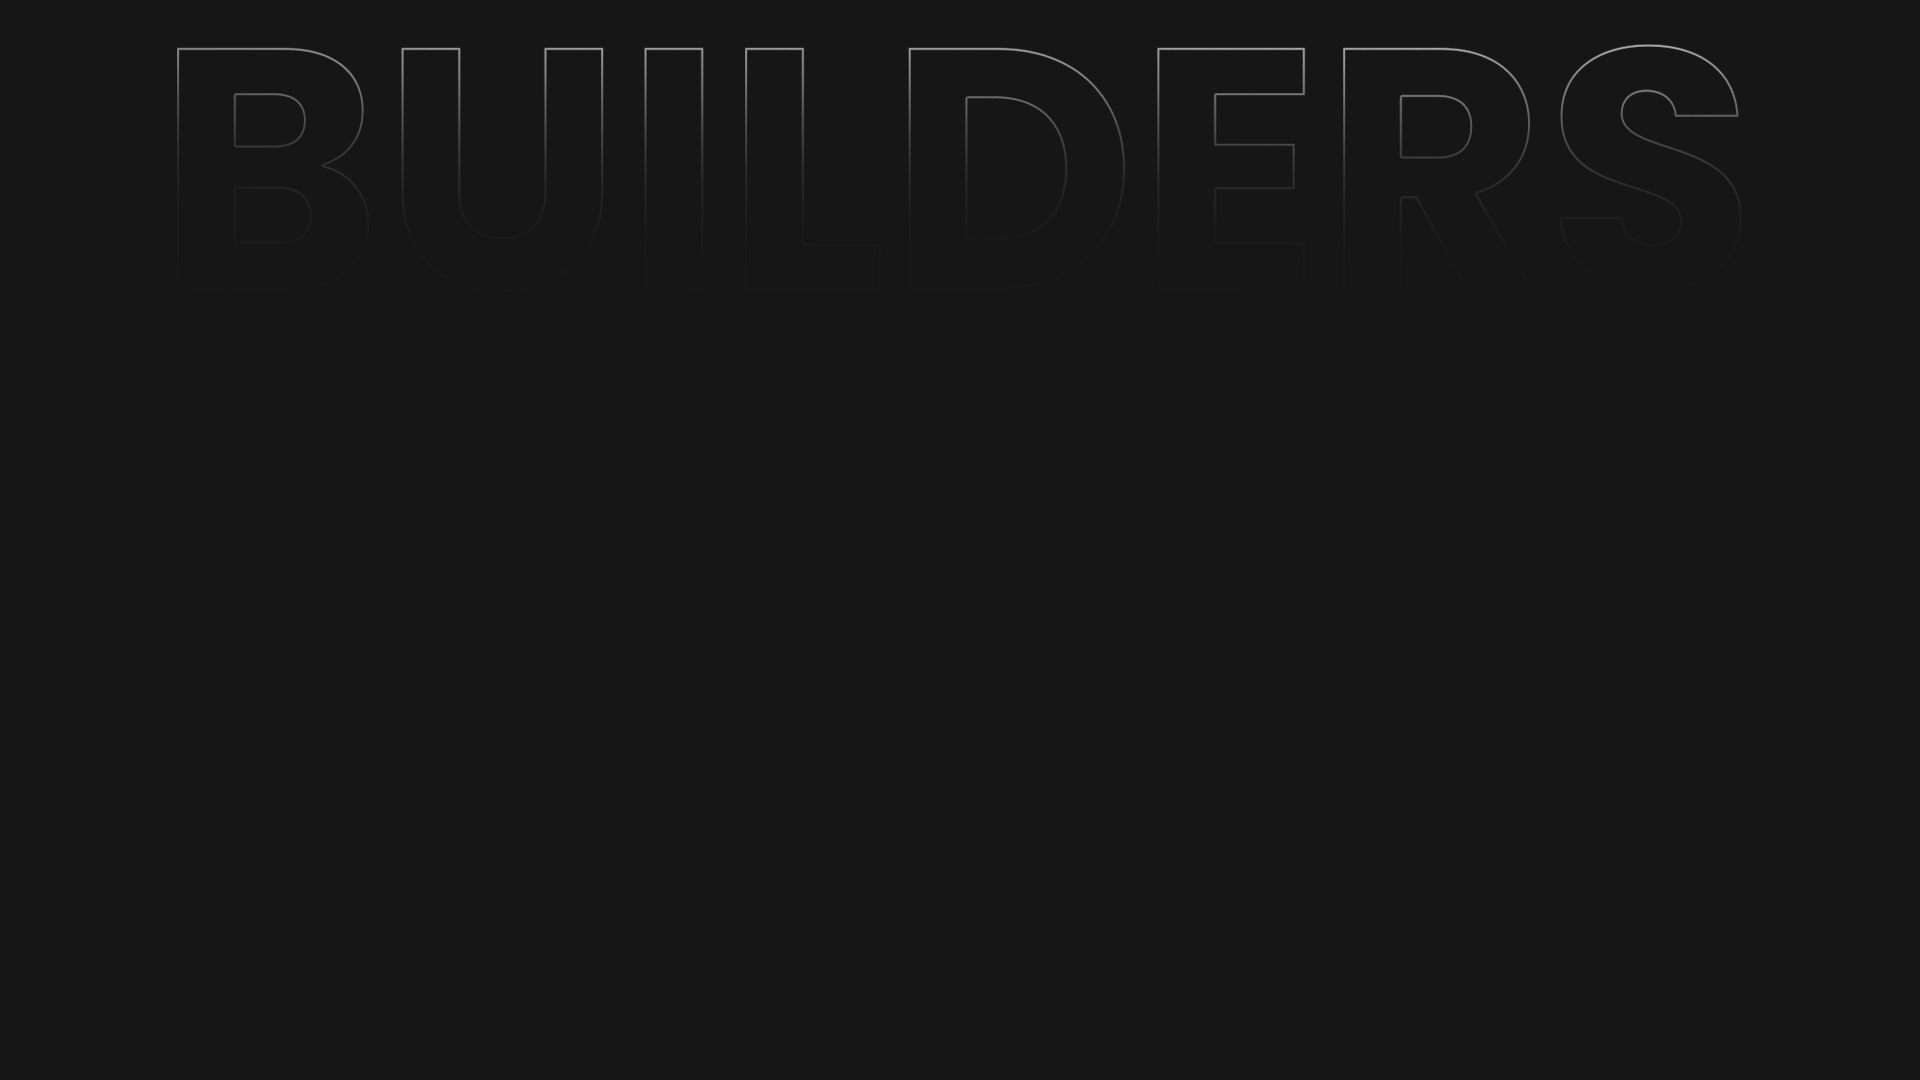
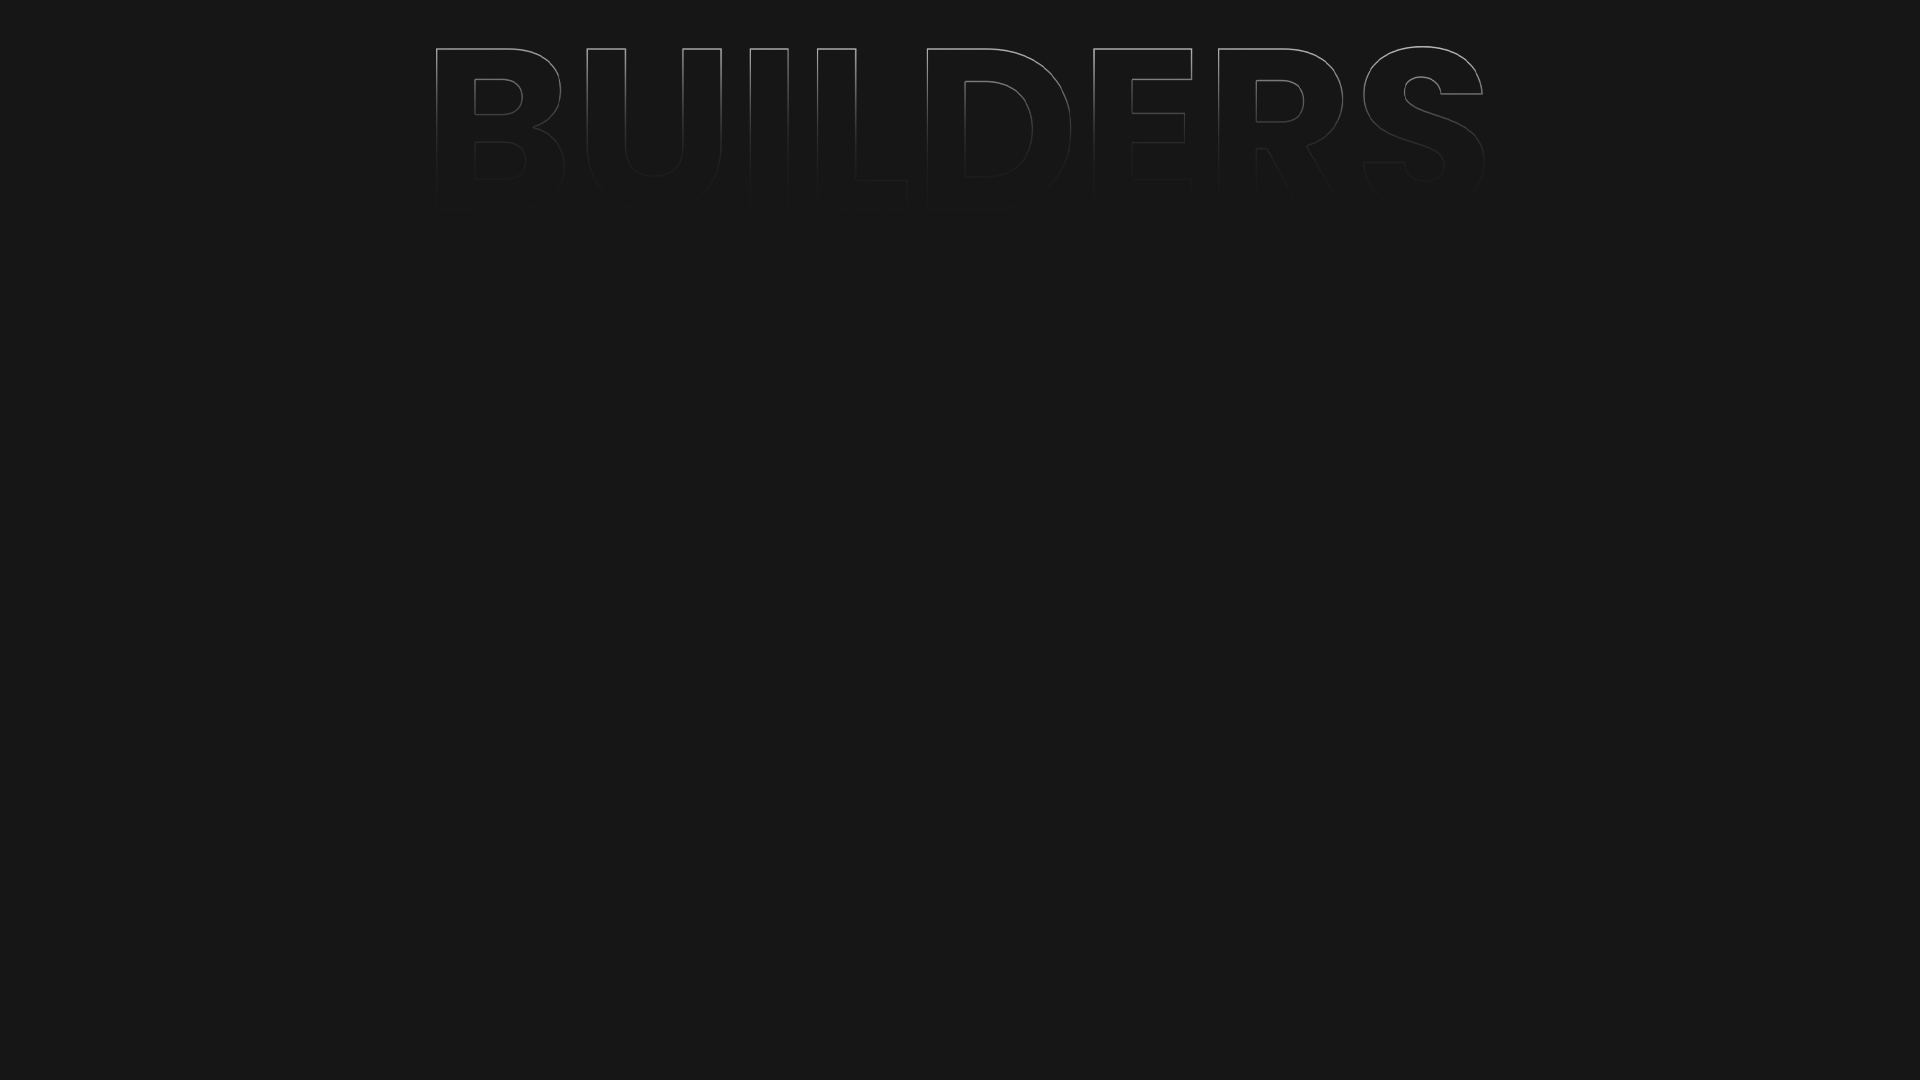
changed background

diff --git a/src/scss/TeamScreen.scss b/src/scss/TeamScreen.scss
@@ -6,7 +6,7 @@
     background-image: url('/public/images/leadership.png');
     background-repeat: no-repeat;
     background-size: cover;
-    background-position: center;
+    background-position: top;
 }
 
 @media (min-width: 1400px) {
@@ -14,7 +14,7 @@
  }
 
 .leadership-wrapper {
-    padding-top: calc(8vw);
+    padding-top: calc(5vw);
     padding-bottom: calc(8vw);
 }
 
